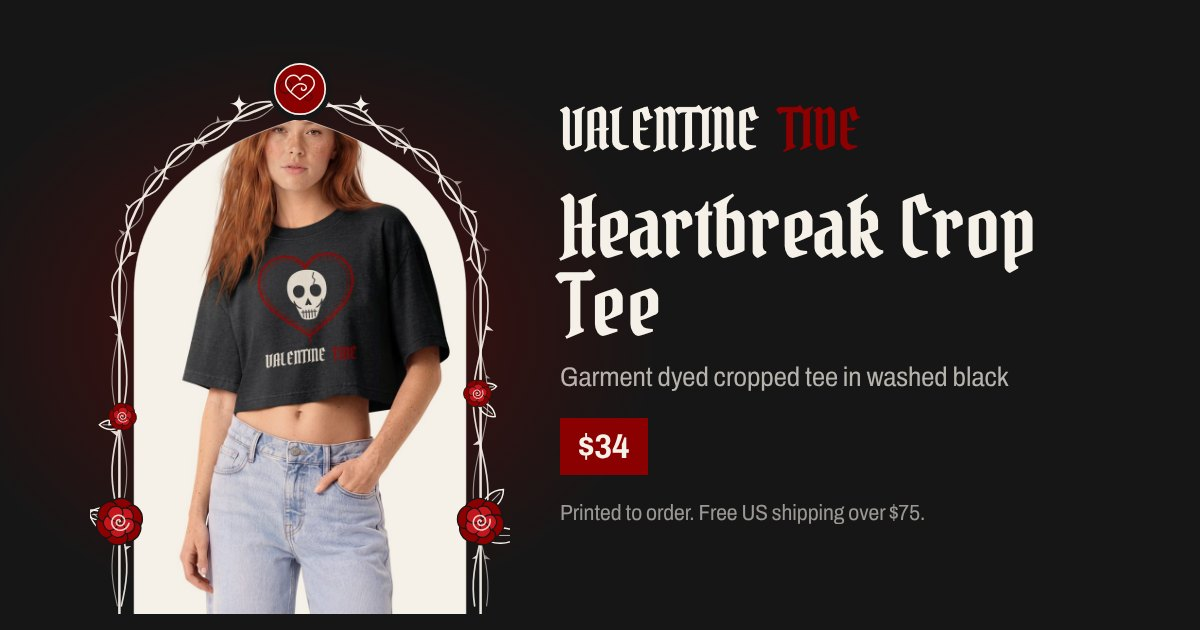
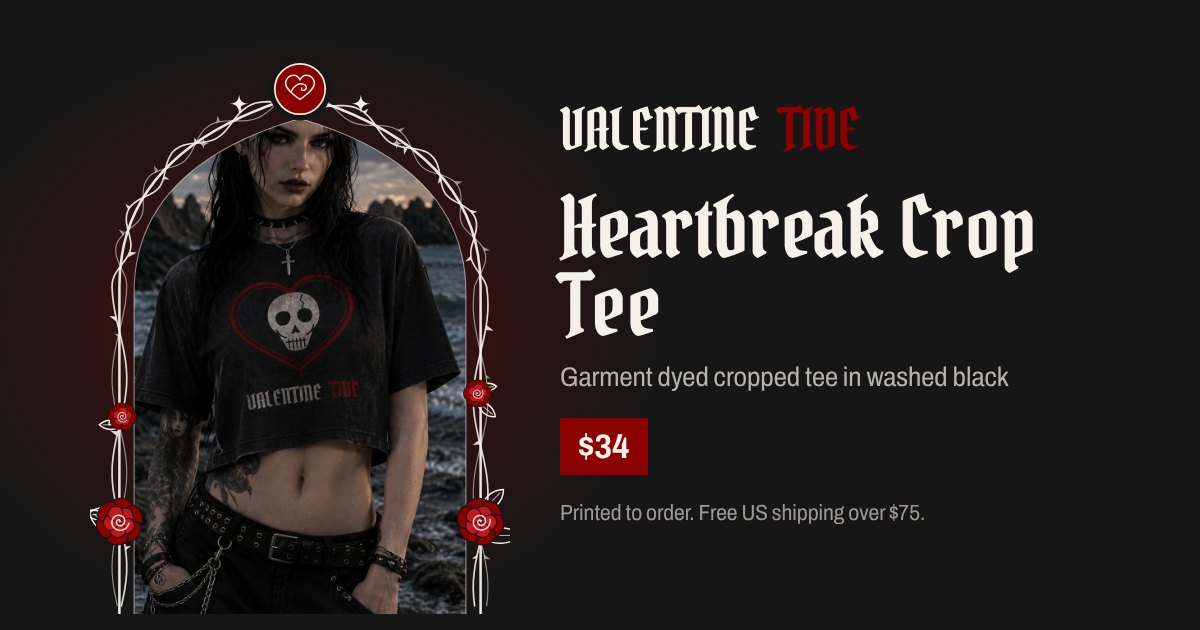
Model photos for the men's rash guard and the Heartbreak Crop
Every product now has a shoreline model shot as its second photo. The lookbook swaps in the real crop tee and men's rash guard looks, with every tile the same size so faces stay in frame, and the red moon scene returns. Link preview cards are redrawn from the full portrait model shots. Product pages, feed and sitemap rebuilt.

Changed region(s): [[0.0925, 0.181, 0.4008, 0.9952]]

diff --git a/shop/night-session-rash-mens/index.html b/shop/night-session-rash-mens/index.html
@@ -28,7 +28,7 @@
   <meta name="twitter:title" content="Night Session Rash Guard, Men&#39;s | Valentine Tide" />
   <meta name="twitter:description" content="Men&#39;s long sleeve rash guard in black, $64. Built for the dark water. Near black with a tonal thorn and wave pattern and the full Surf the Shadows arch across the back: a blood moon over a breaking wave, framed in thorns and roses, above the Valentine Tide lettering. The arch scene sits on" />
   <meta name="twitter:image" content="https://valentinetide.com/assets/og/night-session-rash-mens.jpg" />
-  <script type="application/ld+json">{"@context":"https://schema.org","@type":"Product","name":"Valentine Tide Night Session Rash Guard","description":"Built for the dark water. Near black with a tonal thorn and wave pattern and the full Surf the Shadows arch across the back: a blood moon over a breaking wave, framed in thorns and roses, above the Valentine Tide lettering. The arch scene sits on the chest, a red rose on the right cuff, and Surf the Shadows runs down the left sleeve.","image":["https://valentinetide.com/assets/products/drop003/rash-mens-front.jpg","https://valentinetide.com/assets/products/drop003/rash-mens-model-front.jpg","https://valentinetide.com/assets/products/drop003/rash-mens-beach.jpg","https://valentinetide.com/assets/products/drop003/rash-mens-model-back.jpg"],"sku":"vt-night-session-rash-mens","category":"Swimwear","brand":{"@type":"Brand","name":"Valentine Tide"},"offers":{"@type":"Offer","url":"https://valentinetide.com/shop/night-session-rash-mens/","priceCurrency":"USD","price":"64.00","availability":"https://schema.org/InStock","itemCondition":"https://schema.org/NewCondition"}}</script>
+  <script type="application/ld+json">{"@context":"https://schema.org","@type":"Product","name":"Valentine Tide Night Session Rash Guard","description":"Built for the dark water. Near black with a tonal thorn and wave pattern and the full Surf the Shadows arch across the back: a blood moon over a breaking wave, framed in thorns and roses, above the Valentine Tide lettering. The arch scene sits on the chest, a red rose on the right cuff, and Surf the Shadows runs down the left sleeve.","image":["https://valentinetide.com/assets/products/drop003/rash-mens-front.jpg","https://valentinetide.com/assets/products/lifestyle-rash-mens-rocks.jpg","https://valentinetide.com/assets/products/drop003/rash-mens-model-front.jpg","https://valentinetide.com/assets/products/drop003/rash-mens-beach.jpg","https://valentinetide.com/assets/products/drop003/rash-mens-model-back.jpg"],"sku":"vt-night-session-rash-mens","category":"Swimwear","brand":{"@type":"Brand","name":"Valentine Tide"},"offers":{"@type":"Offer","url":"https://valentinetide.com/shop/night-session-rash-mens/","priceCurrency":"USD","price":"64.00","availability":"https://schema.org/InStock","itemCondition":"https://schema.org/NewCondition"}}</script>
 
   <link rel="preload" href="assets/fonts/pirata-one.woff2" as="font" type="font/woff2" crossorigin />
   <link rel="preload" href="assets/fonts/archivo-var.woff2" as="font" type="font/woff2" crossorigin />

diff --git a/index.html b/index.html
@@ -251,9 +251,9 @@
           <figcaption class="look__cap"><span class="look__title">Cold water, red board</span></figcaption>
         </figure>
         <figure class="look">
-          <img src="assets/lifestyle/beach-goth-surfer.jpg" alt="A goth surfer in a skull and heart crop top holding a red surfboard on the beach" width="1152" height="864" loading="lazy" style="object-position: 40% 30%" />
+          <img src="assets/lifestyle/heartbreak-crop-rocks.jpg" alt="A goth surfer in the Heartbreak Crop Tee on a dark rocky shore at dusk" width="1024" height="1536" loading="lazy" style="object-position: 50% 20%" />
           <figcaption class="look__cap">
-            <span class="look__title">Heartbreak at high tide</span>
+            <span class="look__title">Heartbreak on the rocks</span>
             <a class="look__shop" href="/shop/heartbreak-crop/"><svg class="icon icon--sm" aria-hidden="true"><use href="assets/icons.svg#tee" /></svg>Shop the crop tee</a>
           </figcaption>
         </figure>
@@ -271,10 +271,14 @@
             <a class="look__shop" href="/shop/night-session-one-piece/"><svg class="icon icon--sm" aria-hidden="true"><use href="assets/icons.svg#onepiece" /></svg>Shop the one piece</a>
           </figcaption>
         </figure>
-        <figure class="look look--wide">
-          <img src="assets/products/drop003/rash-mens-beach.jpg" alt="A surfer from behind in the men's Night Session Rash Guard, holding a white board at the shoreline" width="1200" height="1200" loading="lazy" style="object-position: 50% 40%" />
+        <figure class="look">
+          <img src="assets/lifestyle/red-moon-paddle.jpg" alt="A surfer in silhouette walking into dark surf under a blood red sun" width="1200" height="1200" loading="lazy" />
+          <figcaption class="look__cap"><span class="look__title">Paddle out under a red moon</span></figcaption>
+        </figure>
+        <figure class="look">
+          <img src="assets/lifestyle/rash-mens-rocks.jpg" alt="A surfer in the men's Night Session Rash Guard on a rocky shore at sunset, the arch scene on the chest" width="1024" height="1536" loading="lazy" style="object-position: 50% 22%" />
           <figcaption class="look__cap">
-            <span class="look__title">Dawn patrol, black on white</span>
+            <span class="look__title">Dusk patrol</span>
             <a class="look__shop" href="/shop/night-session-rash-mens/"><svg class="icon icon--sm" aria-hidden="true"><use href="assets/icons.svg#rashguard" /></svg>Shop the men's rash guard</a>
           </figcaption>
         </figure>

diff --git a/shop/heartbreak-crop/index.html b/shop/heartbreak-crop/index.html
@@ -28,7 +28,7 @@
   <meta name="twitter:title" content="Heartbreak Crop Tee | Valentine Tide" />
   <meta name="twitter:description" content="Garment dyed cropped tee in washed black, $34. A cracked skull in a bleeding heart, bone and blood on black, with the wordmark underneath. Cropped to sit right at a high waist." />
   <meta name="twitter:image" content="https://valentinetide.com/assets/og/heartbreak-crop.jpg" />
-  <script type="application/ld+json">{"@context":"https://schema.org","@type":"Product","name":"Valentine Tide Heartbreak Crop Tee","description":"A cracked skull in a bleeding heart, bone and blood on black, with the wordmark underneath. Cropped to sit right at a high waist.","image":["https://valentinetide.com/assets/products/heartbreak-crop-front.jpg","https://valentinetide.com/assets/products/heartbreak-crop-model.jpg","https://valentinetide.com/assets/products/heartbreak-crop-back.jpg"],"sku":"vt-heartbreak-crop-black","category":"T-shirts","brand":{"@type":"Brand","name":"Valentine Tide"},"offers":{"@type":"Offer","url":"https://valentinetide.com/shop/heartbreak-crop/","priceCurrency":"USD","price":"34.00","availability":"https://schema.org/InStock","itemCondition":"https://schema.org/NewCondition"}}</script>
+  <script type="application/ld+json">{"@context":"https://schema.org","@type":"Product","name":"Valentine Tide Heartbreak Crop Tee","description":"A cracked skull in a bleeding heart, bone and blood on black, with the wordmark underneath. Cropped to sit right at a high waist.","image":["https://valentinetide.com/assets/products/heartbreak-crop-front.jpg","https://valentinetide.com/assets/products/lifestyle-heartbreak-crop-rocks.jpg","https://valentinetide.com/assets/products/heartbreak-crop-model.jpg","https://valentinetide.com/assets/products/heartbreak-crop-back.jpg"],"sku":"vt-heartbreak-crop-black","category":"T-shirts","brand":{"@type":"Brand","name":"Valentine Tide"},"offers":{"@type":"Offer","url":"https://valentinetide.com/shop/heartbreak-crop/","priceCurrency":"USD","price":"34.00","availability":"https://schema.org/InStock","itemCondition":"https://schema.org/NewCondition"}}</script>
 
   <link rel="preload" href="assets/fonts/pirata-one.woff2" as="font" type="font/woff2" crossorigin />
   <link rel="preload" href="assets/fonts/archivo-var.woff2" as="font" type="font/woff2" crossorigin />
